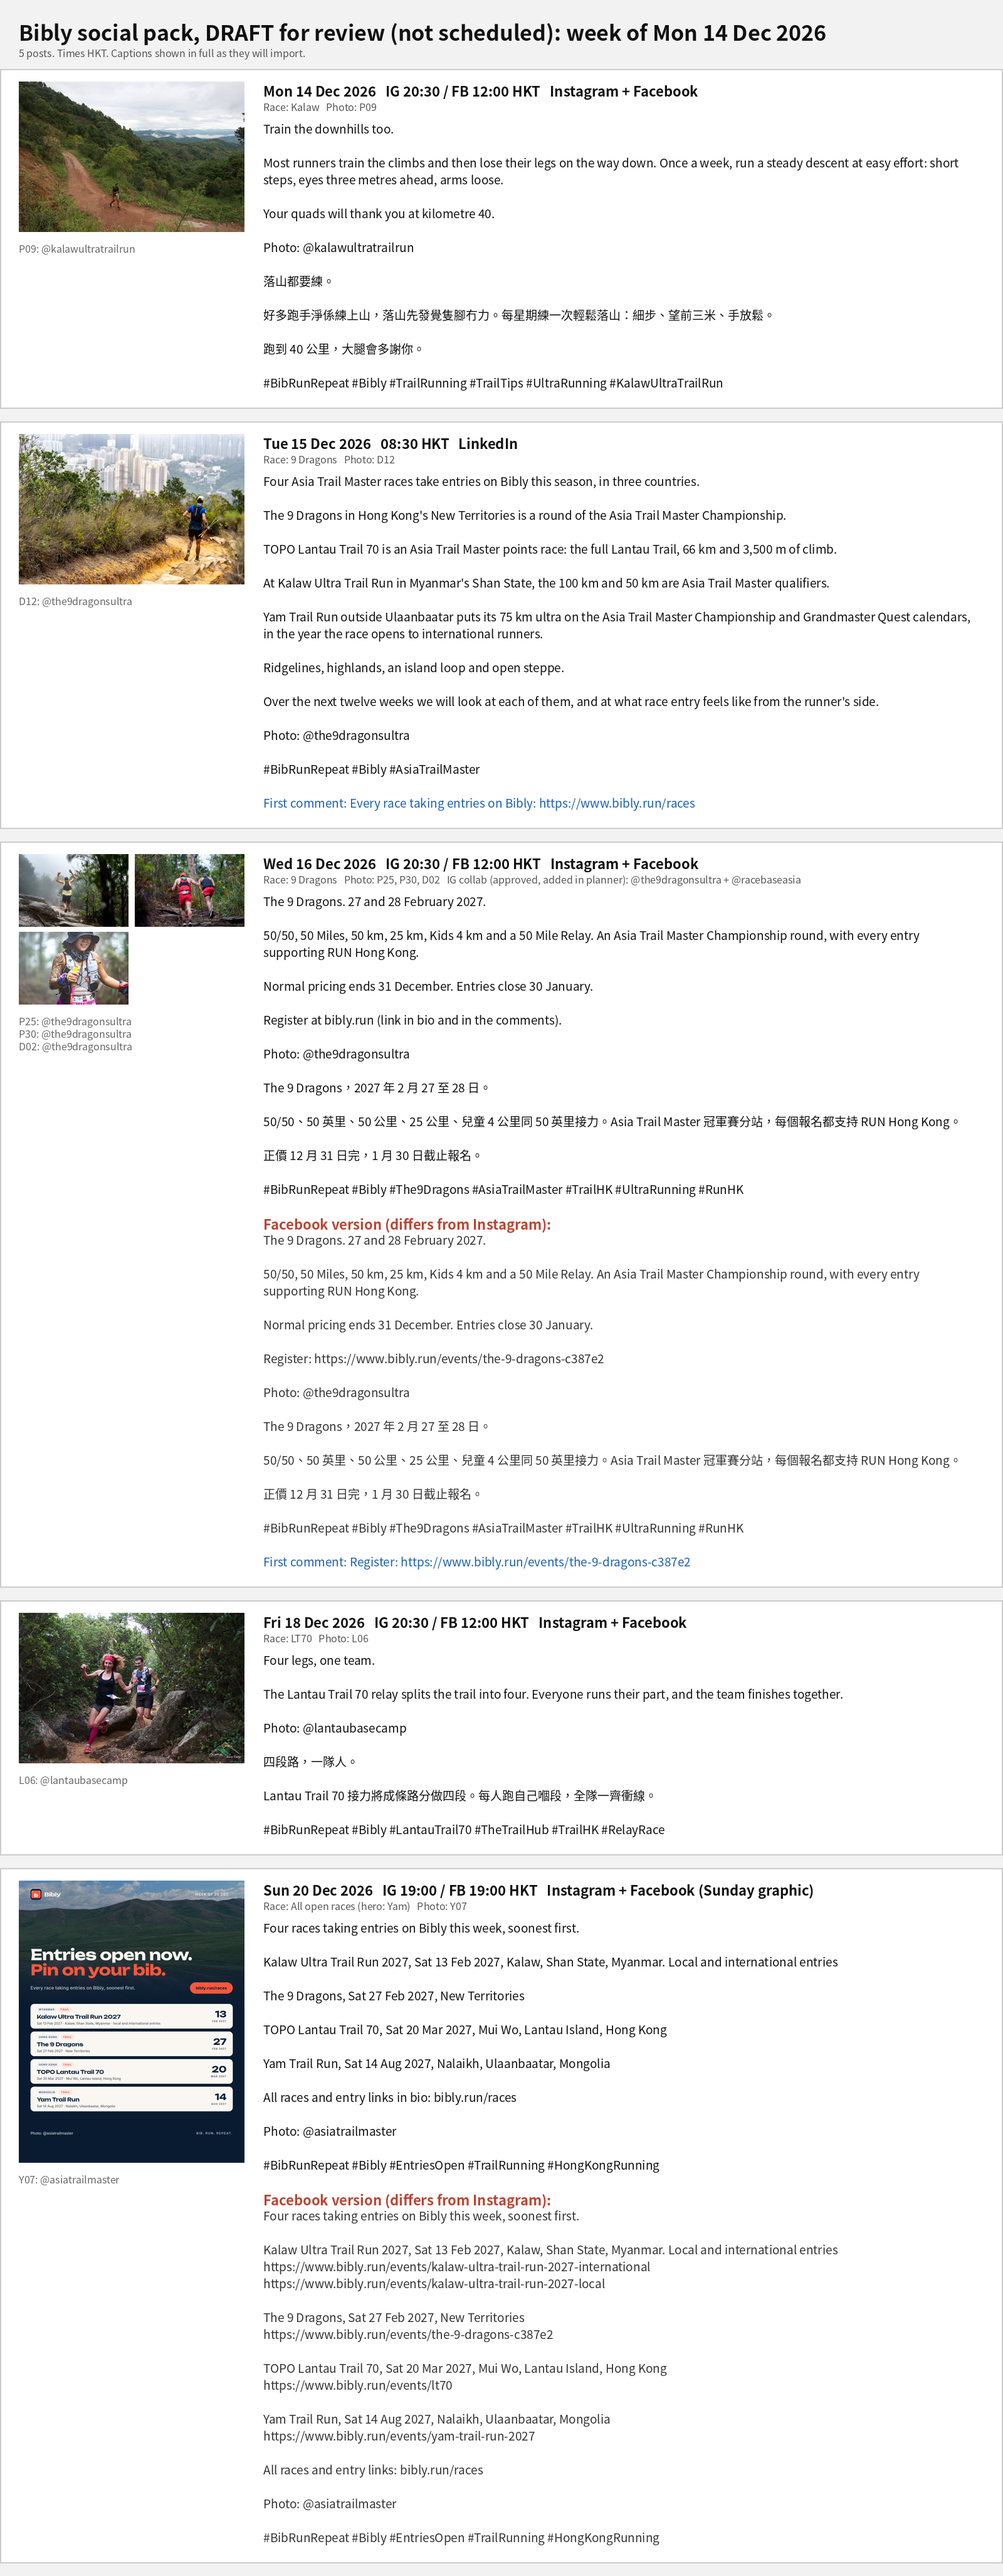
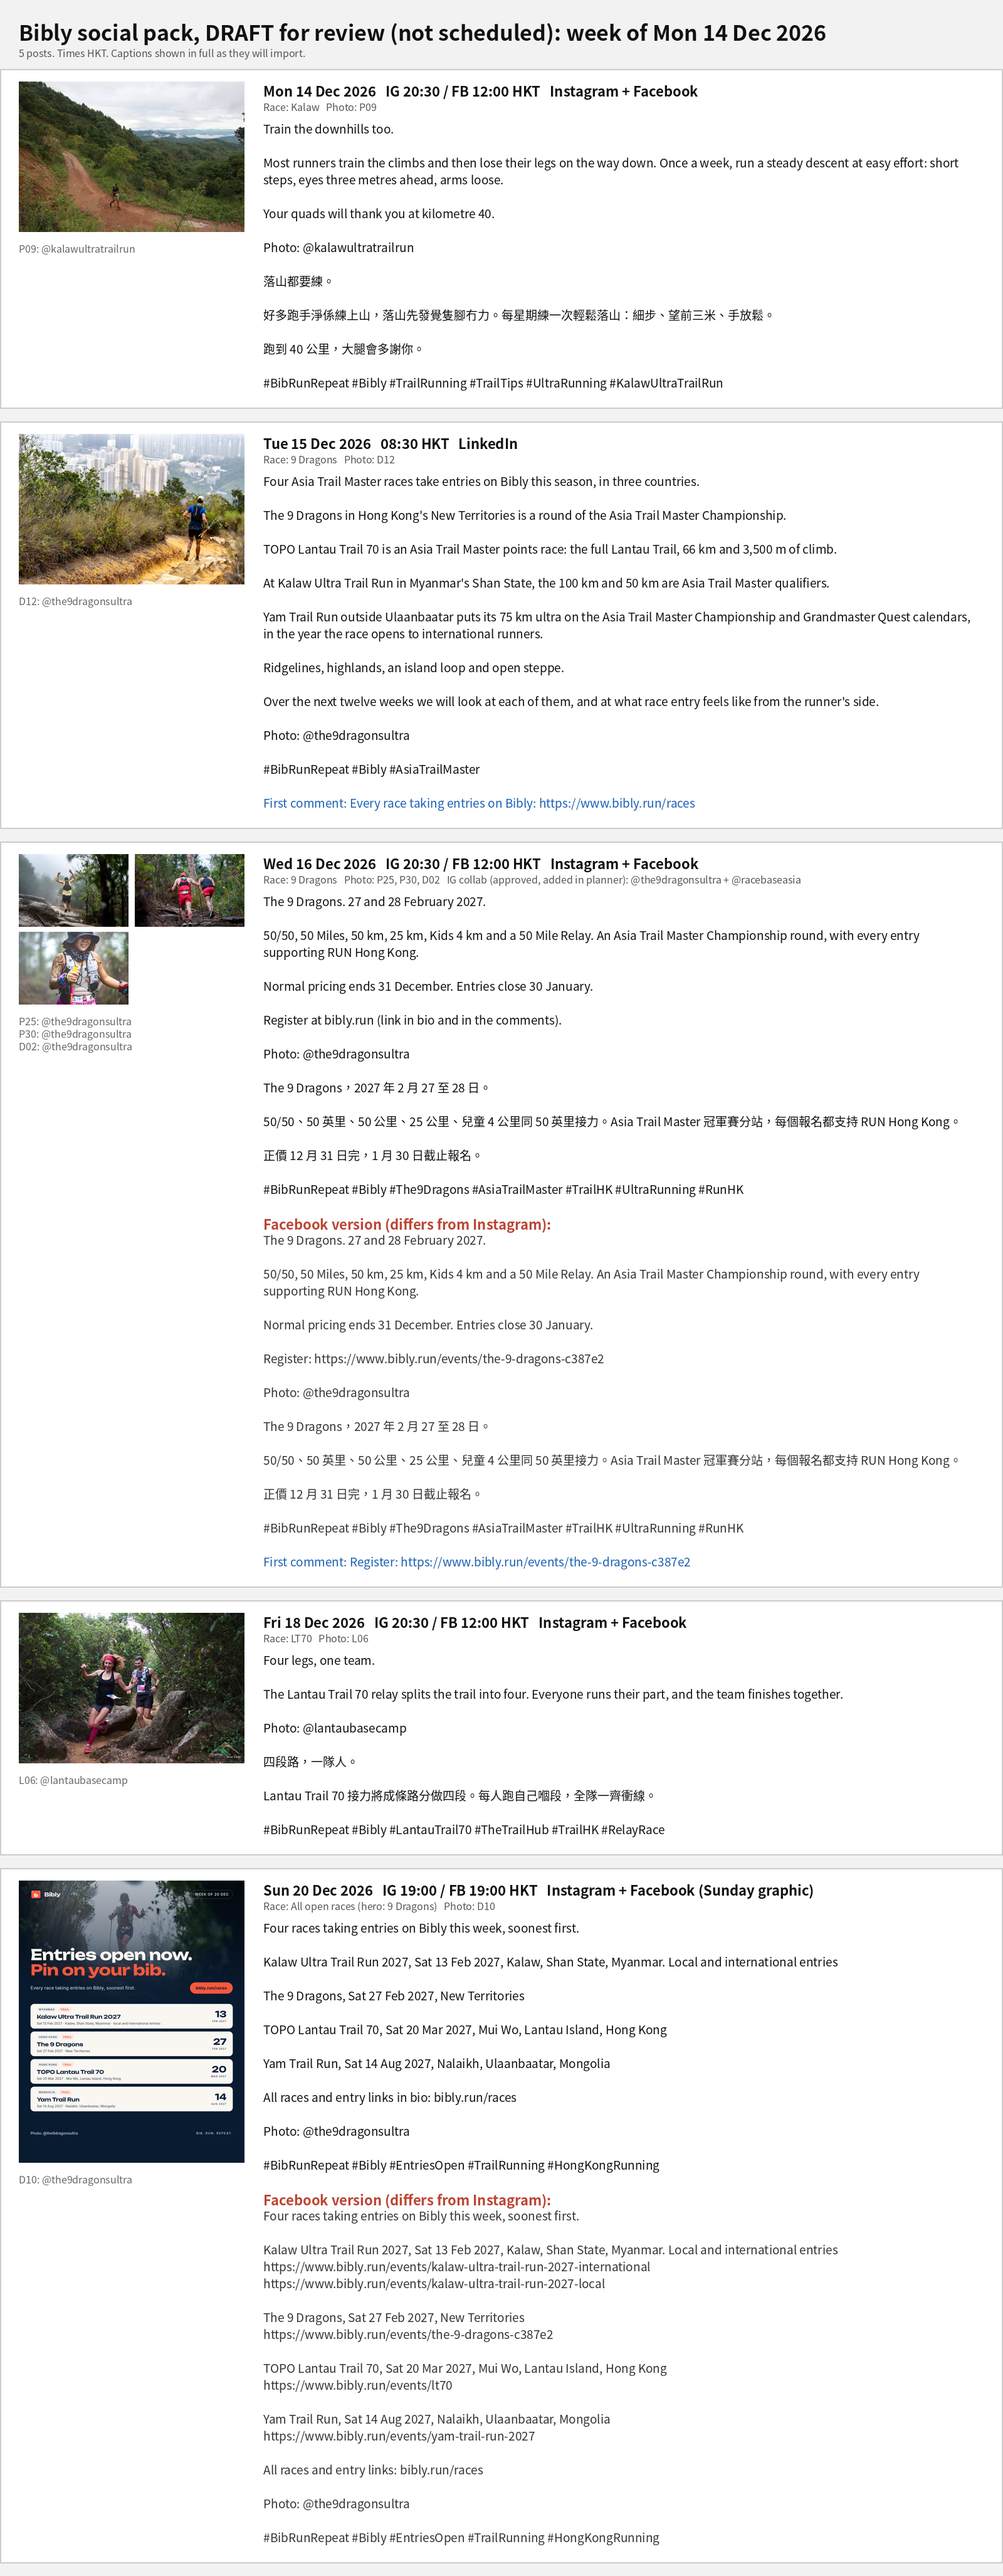
Social pack v3: Yam 8-week fix (Y02/Y07/Y05/Y06/Y04 reassigned; 20 Dec, 24 Jan Sunday heroes D10, D21; 2 Feb LinkedIn D03); re-rendered 6 review sheets; log + rules updated

Changed region(s): [[0.0, 0.7167, 0.25, 0.779]]

diff --git a/PHOTO-RULES.md b/PHOTO-RULES.md
@@ -7,7 +7,7 @@ Rules (Steven, 25 Nov 2026):
 2. Leave at least 8 weeks before a photo is reused anywhere, and don't use the same hero twice in a row for one race.
 3. Within a month, vary each race's shots: a different runner, a different scene and a gender mix.
 4. If a race has no clear photo left, flag it to the Manager. Don't recycle. Use real organiser photos only, with credits.
-5. Yam exception: Yam photos can be reused. Rotate through the whole set before repeating, never use the same photo twice in one week or in two Yam posts in a row, and log every use.
+5. Yam exception: Yam photos can be reused. Rotate through the whole set before repeating, never use the same photo twice in one week or in two Yam posts in a row, and log every use. The 8-week gap (rule 2) still applies to each Yam image across all channels, and alias IDs count as the same image (Y08=Y05, Y09=Y03, Y10=Y02). Y01 is a designed slide with prices, not usable. If no Yam image is clear, use a non-Yam photo (Manager, 26 Nov).
 
 Photo IDs follow social/photo_bank.csv (P/L/Y). Kalaw local gallery files are byte-identical duplicates of the international gallery (for example 13rl6u = 3mzzgj = P00), so log them under the P ID.
 6. Product shots (for example the T8 Sherpa images) are exempt from rules 1 and 2 and may repeat. They still get logged. The rules apply to race photos (Steven, 25 Nov).
